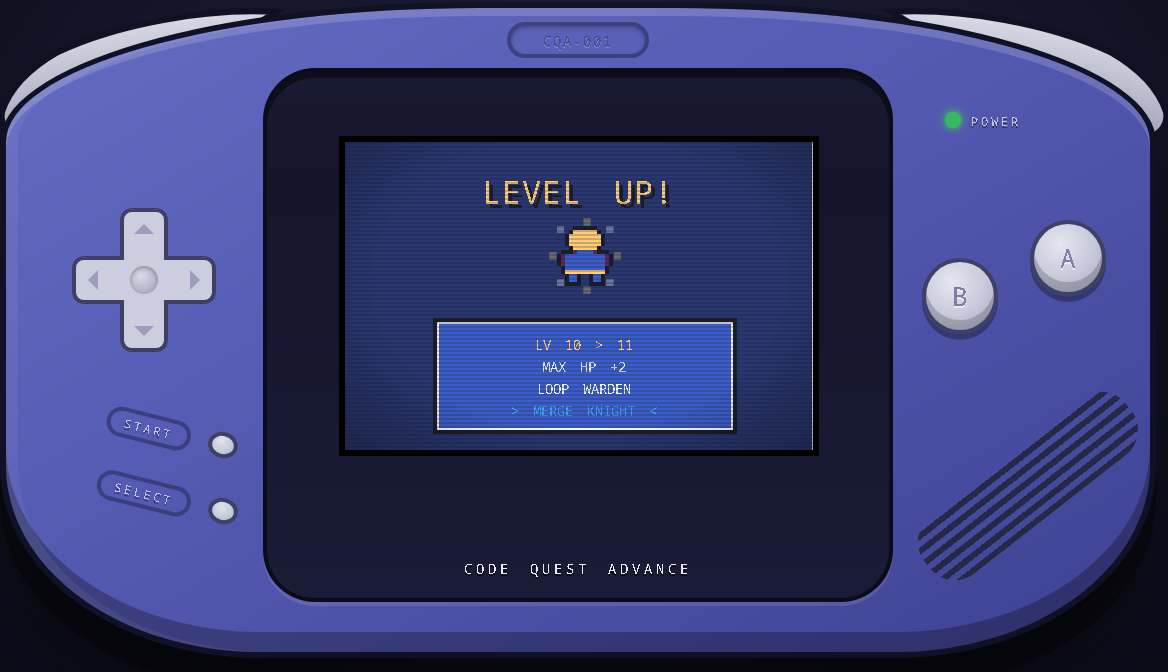
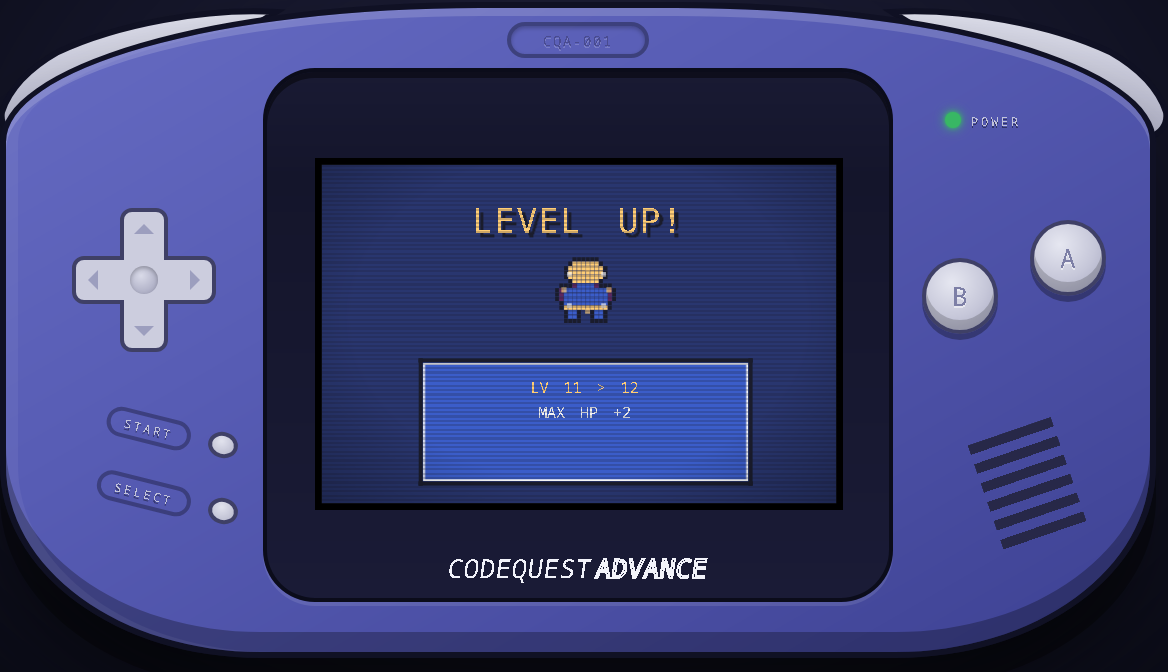
Bigger screen, GBA-style wordmark, reference speaker slits
Screen: the reference LCD is ~273 shell px wide (earlier measurement
under-read it — the panel's dark top gradient fooled the gray
classifier), so the 240x160 canvas is now scaled 1.10x and centered on
the lens center. Wordmark: CODEQUESTADVANCE with no spaces — solid
CODEQUEST plus text-stroke-outlined ADVANCE, skewed like the GBA logo,
13px. Speaker: six short rectangular slits rotated -19deg, parallel to
the A/B button diagonal, at the measured patch center.

Changed region(s): [[0.2466, 0.1875, 0.7397, 0.7812], [0.7705, 0.5625, 0.9863, 0.875], [0.4007, 0.8125, 0.6164, 0.875]]

diff --git a/src/styles.css b/src/styles.css
@@ -109,14 +109,21 @@ html, body {
   box-shadow: inset 0 3px 0 rgba(0,0,0,.45), 0 2px 0 rgba(255,255,255,.10);
 }
 .bezel-caption {
+  /* GBA-logo style wordmark: heavy slanted solid + outlined tail, no spaces */
   position: absolute;
-  bottom: 10px;
+  bottom: 6px;
   width: 100%;
   text-align: center;
-  font-size: 7px;
-  color: #e8e9f4;
-  letter-spacing: 2px;
-  text-shadow: 0 1px 0 rgba(0,0,0,.7);
+  font-size: 13px;
+  letter-spacing: 0;
+  transform: skewX(-8deg);
+  text-shadow: none;
+}
+.cap-solid { color: #f2f3fa; }
+.cap-outline {
+  color: transparent;
+  -webkit-text-stroke: 1px #f2f3fa;
+  margin-left: 2px;
 }
 .power-led {
   /* top-right of the face, right of the lens, with its POWER label */
@@ -143,9 +150,13 @@ html, body {
 /* ============================ THE SCREEN ============================ */
 
 #screen {
+  /* logical canvas stays 240x160; scaled up to the reference's LCD size
+     (~273 shell px wide) and centered on the lens center */
   position: absolute;
   left: 50%;
-  top: 32px;
+  top: 51px;
+  transform: scale(1.10);
+  transform-origin: center;
   margin-left: -120px;
   width: 240px;
   height: 160px;
@@ -324,16 +335,16 @@ html, body {
 
 .speaker {
   /* diagonal slit grille, bottom-right wing */
+  /* six short rectangular slits, parallel to the A/B diagonal (~-19deg) */
   position: absolute;
-  right: -3px;
-  bottom: 65px;
-  width: 128px;
-  height: 36px;
-  transform: rotate(-38deg);
-  border-radius: 16px;
+  right: 39px;
+  bottom: 54px;
+  width: 44px;
+  height: 58px;
+  transform: rotate(-19deg);
   background: repeating-linear-gradient(
     to bottom,
-    transparent 0 3px, #262744 3px 6px);
+    #262744 0 5px, transparent 5px 10px);
   opacity: .95;
 }
 .shell-tag {

diff --git a/src/index.html b/src/index.html
@@ -25,7 +25,7 @@
 
         <div id="shell">
         <div id="bezel">
-          <div class="bezel-caption">CODE QUEST ADVANCE</div>
+          <div class="bezel-caption"><span class="cap-solid">CODEQUEST</span><span class="cap-outline">ADVANCE</span></div>
           <div class="power-led"></div>
           <div id="screen">
             <div id="screen-inner">
